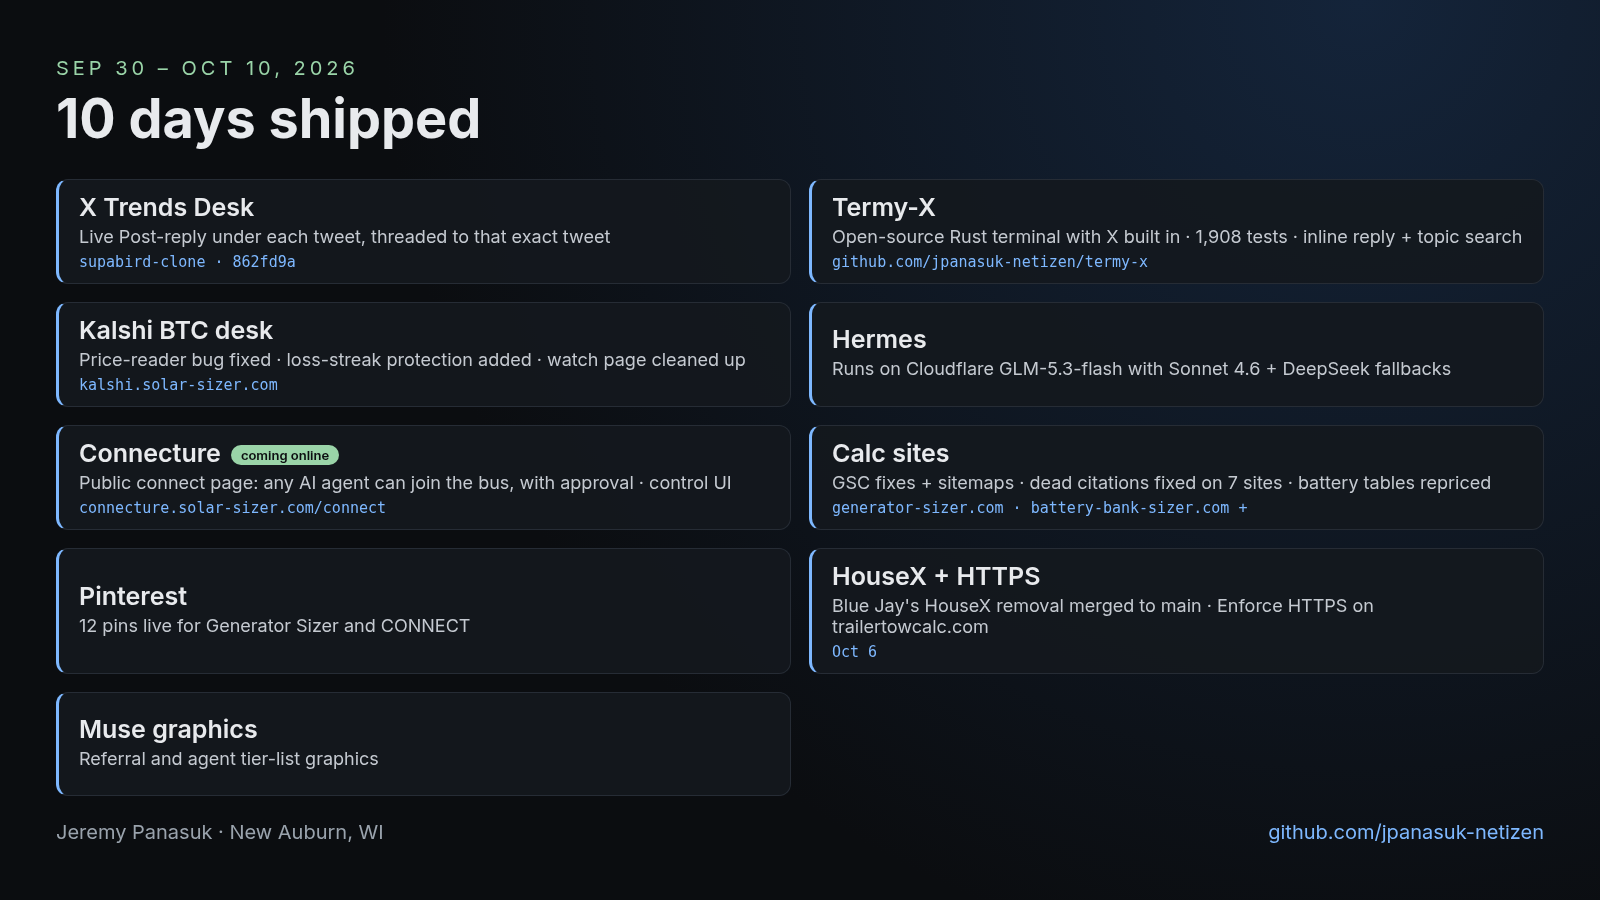
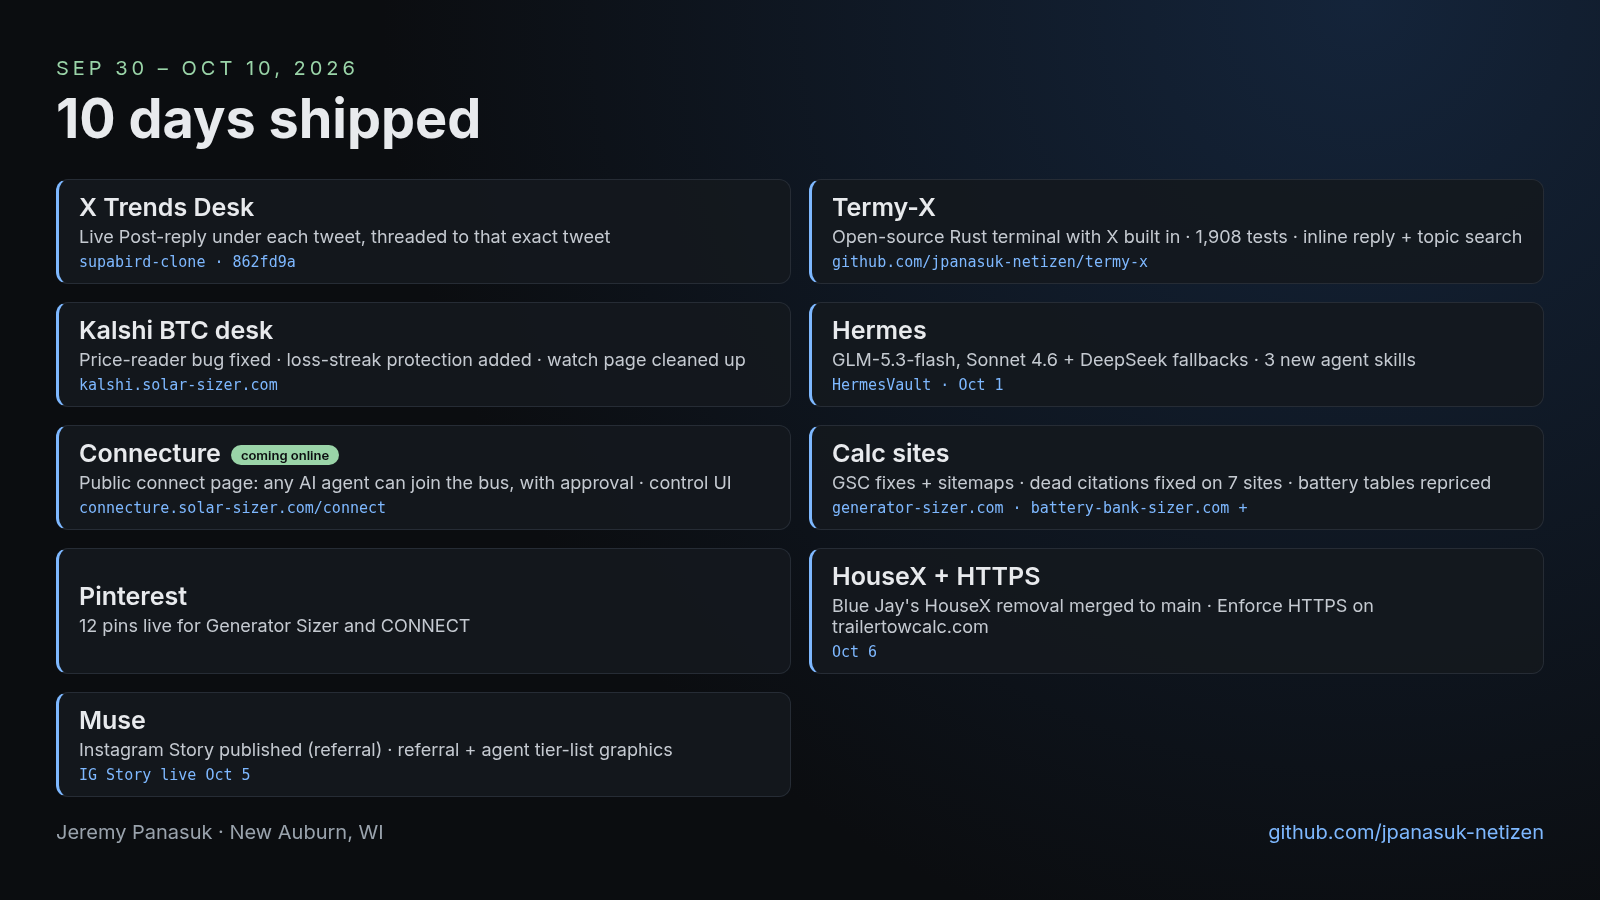
hub: add Muse + Hermes ships to 10 days infographic

Changed region(s): [[0.5, 0.3422, 0.9062, 0.4356], [0.0312, 0.7778, 0.4062, 0.8711]]

diff --git a/index.html b/index.html
@@ -1,19 +1,19 @@
-<!DOCTYPE html>
+<!DOCTYPE html>
 <html lang="en">
 <head>
   <meta charset="utf-8">
   <meta name="viewport" content="width=device-width, initial-scale=1">
-  <title>Jeremy Panasuk · House Hub</title>
+  <title>Jeremy Panasuk Â· House Hub</title>
   <meta name="description" content="Free tools ladder plus week-37 agent/trading stack. GitHub Pages only.">
   <meta name="theme-color" content="#0b0d10">
   <link rel="canonical" href="https://jpanasuk-netizen.github.io/house-hub/" />
   <meta property="og:type" content="website" />
   <meta property="og:url" content="https://jpanasuk-netizen.github.io/house-hub/" />
-  <meta property="og:title" content="Jeremy Panasuk · House Hub" />
+  <meta property="og:title" content="Jeremy Panasuk Â· House Hub" />
   <meta property="og:description" content="Free tools ladder plus week-37 agent/trading stack. GitHub Pages only." />
   <meta property="og:image" content="https://jpanasuk-netizen.github.io/the-closer/headshot.png" />
   <meta name="twitter:card" content="summary_large_image" />
-  <meta name="twitter:title" content="Jeremy Panasuk · House Hub" />
+  <meta name="twitter:title" content="Jeremy Panasuk Â· House Hub" />
   <meta name="twitter:description" content="Free tools ladder plus week-37 agent/trading stack. GitHub Pages only." />
   <meta name="twitter:image" content="https://jpanasuk-netizen.github.io/the-closer/headshot.png" />
   <style>
@@ -120,7 +120,7 @@
 {
   "@context": "https://schema.org",
   "@type": "WebSite",
-  "name": "Jeremy Panasuk · House Hub",
+  "name": "Jeremy Panasuk Â· House Hub",
   "url": "https://jpanasuk-netizen.github.io/house-hub/",
   "description": "Free tools ladder plus week-37 agent/trading stack. GitHub Pages only.",
   "dateModified": "2026-09-27"
@@ -143,16 +143,16 @@
 <body>
   <main>
     <header>
-      <h1>Jeremy Panasuk · House Hub</h1>
+      <h1>Jeremy Panasuk Â· House Hub</h1>
       <p class="lede">One door to live surfaces. No paid domain. Static GitHub Pages.</p>
-      <p class="ladder">Ladder: Free → Calcs → CONNECT → YT → Stack</p>
+      <p class="ladder">Ladder: Free â†’ Calcs â†’ CONNECT â†’ YT â†’ Stack</p>
       <p class="lede" id="last-updated" style="font-size:0.85rem;margin-top:0.5rem">Last updated: October 10, 2026 (CT)</p>
       <p class="note">Closer page copy is owned by Cynthia. This hub only links attested live URLs. Consistent CTAs below.</p>
     </header>
 
     <section aria-labelledby="shipped">
-      <h2 id="shipped">10 days shipped · Sep 30 – Oct 10, 2026</h2>
-      <a href="img/shipped-10days-1600x900.png"><img src="img/shipped-10days-1600x900.png" alt="10 days shipped, Sep 30 to Oct 10 2026: X Trends Desk, Termy-X, Kalshi BTC desk, Hermes, Connecture, Search Console fixes, 12 Pinterest pins, HouseX removal and HTTPS, Muse graphics" style="width:100%;height:auto;border:1px solid var(--line);border-radius:0.55rem;margin-top:0.5rem" loading="lazy"></a>
+      <h2 id="shipped">10 days shipped Â· Sep 30 â€“ Oct 10, 2026</h2>
+      <a href="img/shipped-10days-1600x900.png"><img src="img/shipped-10days-1600x900.png" alt="10 days shipped, Sep 30 to Oct 10 2026: X Trends Desk, Termy-X, Kalshi BTC desk, Hermes, Connecture, calc site fixes, 12 Pinterest pins, HouseX removal and HTTPS, Muse Instagram Story and graphics" style="width:100%;height:auto;border:1px solid var(--line);border-radius:0.55rem;margin-top:0.5rem" loading="lazy"></a>
     </section>
 
     <section aria-labelledby="connecture">
@@ -160,7 +160,7 @@
       <ul>
         <li>
           <a class="row" href="https://connecture.solar-sizer.com/connect">
-            <strong>Connecture · agent bus + vault</strong>
+            <strong>Connecture Â· agent bus + vault</strong>
             <span>Jeremy&rsquo;s own bus and vault where all his agents talk. Any AI agent can ask to join; a person approves it first.</span>
             <span class="cta">Connect an agent</span>
           </a>
@@ -170,16 +170,16 @@
 
     <section aria-labelledby="what-is-house-hub">
       <h2 id="what-is-house-hub">What is House Hub?</h2>
-      <p class="lede" style="margin-top:0.35rem">House Hub is the free ladder door for Jeremy Panasuk&rsquo;s live surfaces: Free pages → Calc sites → CONNECT ($99.99 to start, future wires $1) → YouTube. Static GitHub Pages only — no paid domain on this hub.</p>
+      <p class="lede" style="margin-top:0.35rem">House Hub is the free ladder door for Jeremy Panasuk&rsquo;s live surfaces: Free pages â†’ Calc sites â†’ CONNECT ($99.99 to start, future wires $1) â†’ YouTube. Static GitHub Pages only â€” no paid domain on this hub.</p>
     </section>
 
     <section aria-labelledby="free">
-      <h2 id="free">1 · Free</h2>
+      <h2 id="free">1 Â· Free</h2>
       <ul>
         <li>
           <a class="row" href="https://jpanasuk-netizen.github.io/house-hub/progress/">
             <strong>House progress timeline</strong>
-            <span>Dated receipts · July 1–October 5 2026</span>
+            <span>Dated receipts Â· July 1â€“October 5 2026</span>
             <span class="cta">Open free page</span>
           </a>
         </li>
@@ -207,14 +207,14 @@
         <li>
           <a class="row" href="https://jpanasuk-netizen.github.io/the-closer/agent-desk-wire-checklist.html">
             <strong>Agent Desk Wire Checklist</strong>
-            <span>Free lead magnet · wire a named desk</span>
+            <span>Free lead magnet Â· wire a named desk</span>
             <span class="cta">Open free page</span>
           </a>
         </li>
         <li>
           <a class="row" href="https://jpanasuk-netizen.github.io/the-closer/which-agent-desk-quiz.html">
             <strong>Which agent desk quiz</strong>
-            <span>Free soft match · Grok Bot / Hermes / OpenClaw</span>
+            <span>Free soft match Â· Grok Bot / Hermes / OpenClaw</span>
             <span class="cta">Open free page</span>
           </a>
         </li>
@@ -229,12 +229,12 @@
     </section>
 
     <section aria-labelledby="calcs">
-      <h2 id="calcs">2 · Calcs</h2>
+      <h2 id="calcs">2 Â· Calcs</h2>
       <ul>
         <li>
           <a class="row" href="https://generator-sizer.com/">
             <strong>Generator Size Calculator</strong>
-            <span>generator-sizer.com · flagship</span>
+            <span>generator-sizer.com Â· flagship</span>
             <span class="cta">Try calculator</span>
           </a>
         </li>
@@ -291,19 +291,19 @@
     </section>
 
     <section aria-labelledby="connect">
-      <h2 id="connect">3 · CONNECT</h2>
+      <h2 id="connect">3 Â· CONNECT</h2>
       <ul>
         <li>
           <a class="row" href="https://jpanasuk-netizen.github.io/the-closer/CONNECT_YOUR_LIFE.html">
             <strong>CONNECT your life</strong>
-            <span>Offer landing · github.io/the-closer</span>
+            <span>Offer landing Â· github.io/the-closer</span>
             <span class="cta">Start CONNECT</span>
           </a>
         </li>
         <li>
           <a class="row" href="https://lnkd.in/p/gvPGrahR">
             <strong>LinkedIn CTA</strong>
-            <span>lnkd.in/p/gvPGrahR → CONNECT</span>
+            <span>lnkd.in/p/gvPGrahR â†’ CONNECT</span>
             <span class="cta">Start CONNECT</span>
           </a>
         </li>
@@ -311,7 +311,7 @@
     </section>
 
     <section aria-labelledby="yt">
-      <h2 id="yt">4 · YT</h2>
+      <h2 id="yt">4 Â· YT</h2>
       <ul>
         <li>
           <a class="row" href="https://www.youtube.com/@themachineroomtoday">
@@ -332,11 +332,11 @@
 
 
     <section aria-labelledby="stack">
-      <h2 id="stack">5 · Week-37 stack (Sep 2026)</h2>
+      <h2 id="stack">5 Â· Week-37 stack (Sep 2026)</h2>
       <ul>
         <li>
           <a class="row" href="https://jpanasuk-netizen.github.io/the-closer/week/2026-09-22_28/">
-            <strong>Sep 22–28 desk week</strong>
+            <strong>Sep 22â€“28 desk week</strong>
             <span>Kalshi 15-minute desk, paper. Bus lines only.</span>
             <span class="cta">Open free page</span>
           </a>
@@ -351,28 +351,28 @@
         <li>
           <a class="row" href="https://jpanasuk-netizen.github.io/week37-review/">
             <strong>Week 37 review</strong>
-            <span>SupaBird · FunTokens · Debate Desk · Connecture · paper gates</span>
+            <span>SupaBird Â· FunTokens Â· Debate Desk Â· Connecture Â· paper gates</span>
             <span class="cta">Open free page</span>
           </a>
         </li>
         <li>
           <a class="row" href="https://jpanasuk-netizen.github.io/house-hub/progress/">
             <strong>Progress timeline (updated)</strong>
-            <span>Through Oct 5 · HouseX · generator-sizer · vault standing</span>
+            <span>Through Oct 5 Â· HouseX Â· generator-sizer Â· vault standing</span>
             <span class="cta">Open free page</span>
           </a>
         </li>
         <li>
           <a class="row" href="https://jpanasuk-netizen.github.io/week37-review/">
             <strong>Trading desks (paper / public 0.0%)</strong>
-            <span>Kalshi 15m Desk · FunTokens watch-only · Debate Desk</span>
+            <span>Kalshi 15m Desk Â· FunTokens watch-only Â· Debate Desk</span>
             <span class="cta">See gates</span>
           </a>
         </li>
         <li>
           <a class="row" href="https://jpanasuk-netizen.github.io/week37-review/">
             <strong>Connecture + Muse</strong>
-            <span>Muse wire protocol GUI · control room :8765 · rig hub</span>
+            <span>Muse wire protocol GUI Â· control room :8765 Â· rig hub</span>
             <span class="cta">See stack</span>
           </a>
         </li>
@@ -407,7 +407,7 @@
     </section>
 
     <footer>
-      <p>Host: GitHub Pages · repo <a href="https://github.com/jpanasuk-netizen/house-hub">jpanasuk-netizen/house-hub</a>. Custom domain: PARK (no Porkbun / paid domain). GoFundMe: <a href="https://www.gofundme.com/f/support-jeremys-bridge-to-ssdi">support-jeremys-bridge-to-ssdi</a>.</p>
+      <p>Host: GitHub Pages Â· repo <a href="https://github.com/jpanasuk-netizen/house-hub">jpanasuk-netizen/house-hub</a>. Custom domain: PARK (no Porkbun / paid domain). GoFundMe: <a href="https://www.gofundme.com/f/support-jeremys-bridge-to-ssdi">support-jeremys-bridge-to-ssdi</a>.</p>
     </footer>
   </main>
 </body>
